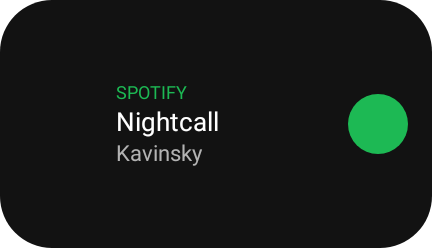
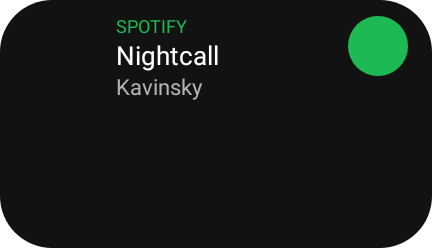
docs(ui-builder): a real before render for the row-alignment evidence
The pair committed with #525 was two copies of the same image. The file
put in as "before" had been re-rendered after the per-child alignment
workaround went in, so it was already centred: both PNGs had the same
md5, and the evidence showed no difference at all.

The before is now the generated file with its
`verticalAlignment = RemoteAlignment.CenterVertically` line removed —
what the generator emitted before #525 — compiled and rendered the same
way as the after. One line of source apart, nothing else.

Also drops the note explaining why the before's play button sat
differently: it sat differently because it was the wrong render, and the
two now come from one design.

diff --git a/docs/evidence/widget-row-alignment/README.md b/docs/evidence/widget-row-alignment/README.md
@@ -21,7 +21,12 @@ Neither render has album artwork: a generated widget takes its content bitmaps a
 `RemoteImageBitmap` parameters and the generated `@Preview` supplies `ImageBitmap(1, 1)`
 placeholders. The 52dp gap on the left is that placeholder occupying its slot.
 
-The "before" render is the one captured for
-[`docs/evidence/widget-color-alpha/`](../widget-color-alpha/README.md), which is why its play
-button sits differently: that design was later resized to fit both shipped footprints. The
-vertical position is the comparison this pair is making.
+The two differ in exactly one line of generated source. The "before" is the same file with
+
+```kotlin
+verticalAlignment = RemoteAlignment.CenterVertically,
+```
+
+removed from its `RemoteRow`, which is what the generator emitted before this change. Everything
+else — the design, the compile, the preview, the footprint — is identical, so the vertical position
+is the only variable.
